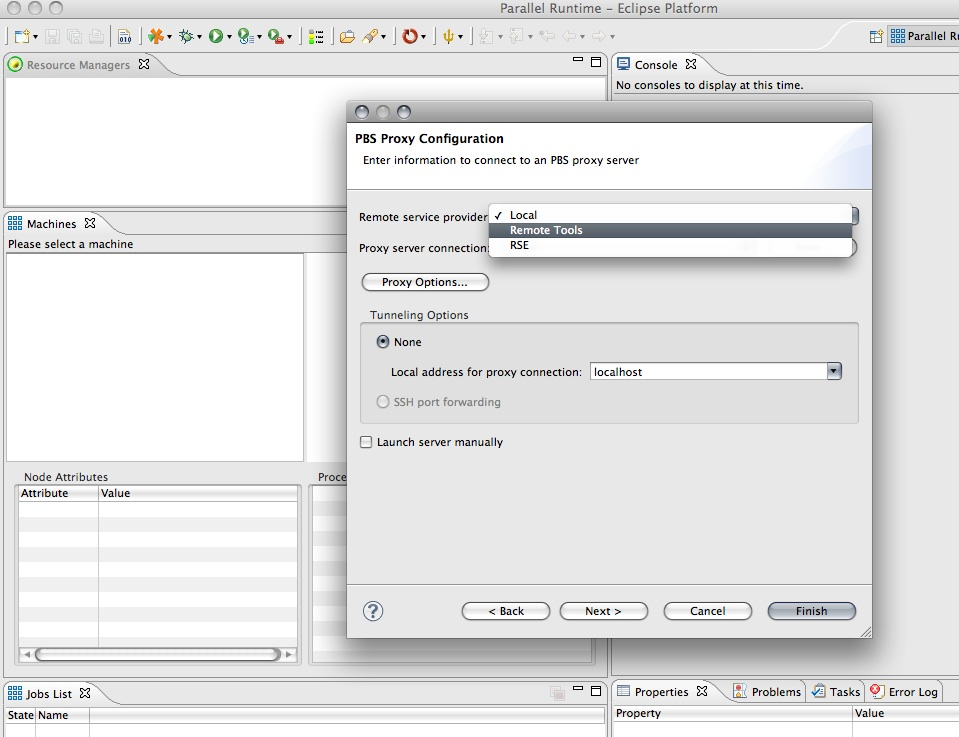
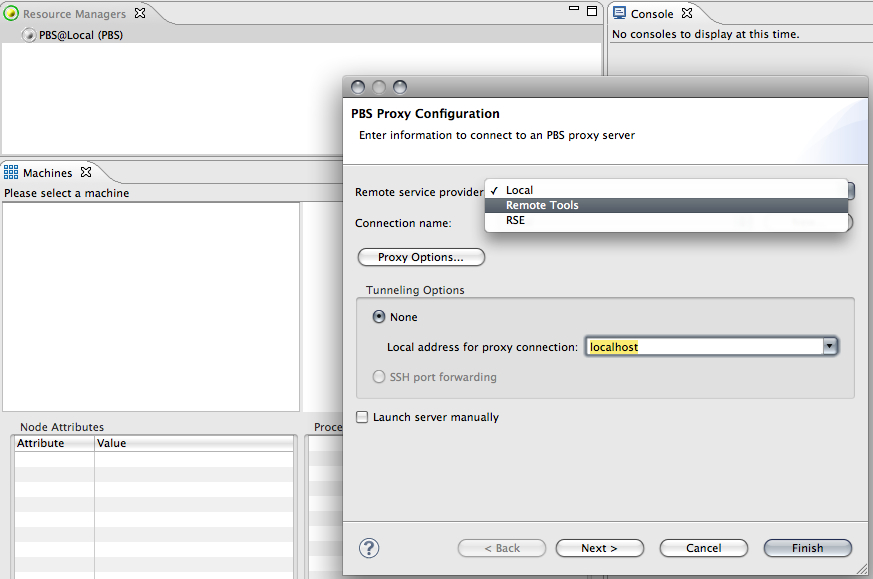
Updated two images and readjusted sizes on all.

Changed region(s): [[0.0, 0.0, 1.0, 1.0]]

diff --git a/rms/org.eclipse.ptp.rm.pbs.help/html/PBSHelpPage.html b/rms/org.eclipse.ptp.rm.pbs.help/html/PBSHelpPage.html
@@ -104,7 +104,7 @@ provider", select the "Remote Tools" option:</li>
 </ul>
 <br>
 <div style="margin-left: 40px;"><img
- style="width: 959px; height: 737px;" alt="Use Remote Tools"
+ style="width: 873px; height: 579px;" alt="Use Remote Tools"
  src="images/04useRemoteTools.jpg"><br>
 <br>
 </div>
@@ -116,7 +116,7 @@ Configuration" as shown here:
 <br>
 <br>
 <br>
-<img style="width: 835px; height: 773px;"
+<img style="width: 953px; height: 708px;"
  alt="Configure Remote Connection"
  src="images/05configureRemoteHost.jpg"><br>
 <p>Here under "Remote Host" you can name the resource, provide its
@@ -236,7 +236,7 @@ started successfully.<br>
 <br>
 <br>
 <div style="margin-left: 40px;"><img
- style="width: 742px; height: 396px;" alt="New Resource Manager"
+ style="width: 692px; height: 343px;" alt="New Resource Manager"
  src="images/10newResourceManager.jpg"><br>
 <br>
 </div>
@@ -277,8 +277,8 @@ we have also renamed this configuration "PBS_alr":</li>
 </ul>
 <br>
 <div style="margin-left: 40px;"><img
- style="width: 1167px; height: 730px;" alt="Create PBS_alr"
- src="images/13createPBS_alr.jpg" border="1"><br>
+ style="border: 1px solid ; width: 1167px; height: 730px;"
+ alt="Create PBS_alr" src="images/13createPBS_alr.jpg"><br>
 <br>
 </div>
 <br>
@@ -327,7 +327,8 @@ often give you additional information on formatting for that particular
 attribute.<br>
 <br>
 <br>
-<img alt="Launch Tab Details" src="images/14launchTabDetails.jpg"><br>
+<img style="width: 1181px; height: 574px;" alt="Launch Tab Details"
+ src="images/14launchTabDetails.jpg"><br>
 <br>
 <br>
 <h3>Persistence</h3>
@@ -348,7 +349,8 @@ let
 us
 suppose
 we
-had two different configurations,
+had
+two different configurations,
 <span style="font-style: italic;">PBS_A</span> and <span
  style="font-style: italic;">PBS_B</span>; let us further suppose they
 both use the <span style="font-style: italic;">PBS@Local</span>
